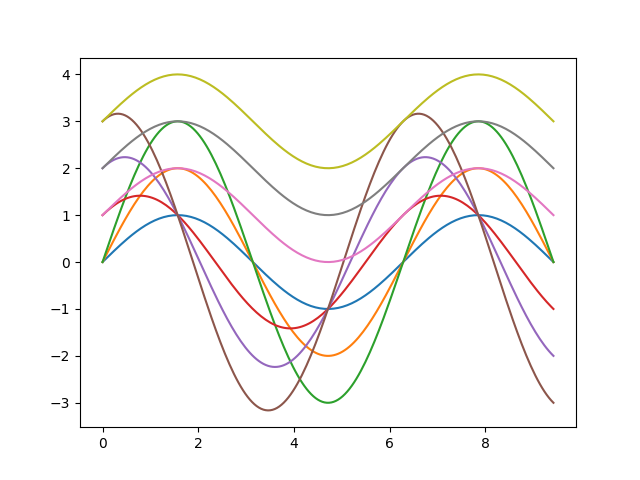
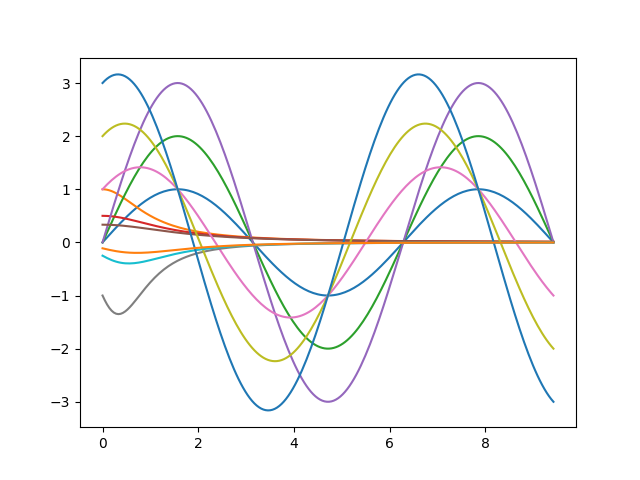
Add coeffs generator

diff --git a/test/test_generator.py b/test/test_generator.py
@@ -1,0 +1,57 @@
+import unittest
+from math import sqrt
+import numpy as np
+import sympy as sp
+import matplotlib.pyplot as plt
+from src import polyhedra
+from src import generator
+
+class TestGenerator(unittest.TestCase):
+    def __init__(self, methodName: str = ...) -> None:
+        super().__init__(methodName)
+        syms = sp.symbols('x y')
+        x, y = syms
+        exprs_val = [x**2, y**2]
+        exprs_dir = [np.array([2*x, 0]), np.array([0, 2*y])]
+        fexprs = [
+            generator.FlowExpr(expr_val, expr_dir)
+            for expr_val, expr_dir in zip(exprs_val, exprs_dir)
+        ]
+        cg = generator.CoeffsGenerator(syms, fexprs)
+
+        wits_pos = [
+            np.array([+1., 0.]),
+            np.array([-1., 0.]),
+            np.array([0., +1.]),
+            np.array([0., -1.]),
+        ]
+
+        for vars in wits_pos:
+            cg.add_constraint_pos(vars)
+
+        A = np.array([
+            [-0.5, -1.],
+            [+1., -0.5]
+        ])
+
+        wits_lie_vars = [
+            np.array([+1., +1.]),
+            np.array([+1., -1.]),
+            np.array([-1., +1.]),
+            np.array([-1., -1.]),
+        ]
+        wits_lie = [(vars, A @ vars) for vars in wits_lie_vars]
+
+        for vars, dvars in wits_lie:
+            cg.add_constraint_lie(vars, dvars)
+
+        self.cg = cg
+
+        coeffs, r = cg.compute_coeffs_robust(output_flag=False)
+        self.coeffs = coeffs
+        self.r = r
+
+    def test_coeffs_robust(self):
+        self.assertAlmostEqual(self.coeffs[0], 1 - self.r)
+        self.assertAlmostEqual(self.coeffs[1], 1 - self.r)
+        self.assertAlmostEqual(self.r, 1/(1 + sqrt(10)/2))

diff --git a/test/test_symbolics.py b/test/test_symbolics.py
@@ -1,0 +1,54 @@
+import unittest
+from math import pi
+import numpy as np
+import sympy as sp
+import matplotlib.pyplot as plt
+from src import symbolics
+
+class TestSymbolics(unittest.TestCase):
+    def __init__(self, methodName: str = ...) -> None:
+        super().__init__(methodName)
+        syms = sp.symbols('x a')
+        self.syms = syms
+        exprs = [
+            syms[1]*sp.sin(syms[0]),
+            1/(syms[1] + syms[0]**2)
+        ]
+
+        nstep = 200
+        xdom = np.linspace(0.0, 3*pi, nstep)
+        adom = [1, 2, 3]
+
+        for a in adom:
+            for expr in exprs:
+                points = [
+                    symbolics.evalf_expr(expr, syms, np.array([x, a]))
+                    for x in xdom
+                ]
+                plt.plot(xdom, points)
+        
+        dexprs = [symbolics.diff_expr(expr, syms) for expr in exprs]
+
+        for a in adom:
+            for dexpr in dexprs:
+                points = [
+                    symbolics.evalf_expr(
+                        np.dot(dexpr, np.array([1, 1])),
+                        syms,
+                        np.array([x, a])
+                    )
+                    for x in xdom
+                ]
+                plt.plot(xdom, points)
+
+        plt.savefig('./figs/plot_symfunc.png')
+        plt.close()
+
+        self.dexprs = dexprs
+
+    def test_diff(self):
+        x, a = self.syms
+        self.assertEqual(self.dexprs[0][0], a*sp.cos(x))
+        self.assertEqual(self.dexprs[0][1], sp.sin(x))
+        self.assertEqual(self.dexprs[1][0], -2*x/(a + x**2)**2)
+        self.assertEqual(self.dexprs[1][1], -1/(a + x**2)**2)

diff --git a/test/test_ackermann.py b/test/test_ackermann.py
@@ -16,7 +16,8 @@ class TestAckermann(unittest.TestCase):
 
         finps = lambda t : np.array([
             0.1*(1 + 0.5*cos(t)),
-            0.1*(1 + 0.5*sin(t))])
+            0.1*(1 + 0.5*sin(t))
+        ])
 
         traj_inps = [finps(t) for t in tdom]
 
@@ -25,11 +26,12 @@ class TestAckermann(unittest.TestCase):
             ax_[i, j].plot(tdom, [inps[k] for inps in traj_inps])
 
         L = 0.33
+        vars_init = np.zeros(4)
+        print(vars_init)
 
         nom_sys = ackermann.make_system(L)
         nom_cosys = systems.open_loop(nom_sys, finps)
-        varsinit = np.array([0, 0, 0, 0])
-        traj_conom = dynamics.trajectory(nom_cosys, varsinit, tdom)
+        traj_conom = dynamics.trajectory(nom_cosys, vars_init, tdom)
         finps_augm = lambda t : np.concatenate((np.array([1]), finps(t)))
 
         for k in range(4):
@@ -37,7 +39,7 @@ class TestAckermann(unittest.TestCase):
             ax_[i + 1, j].plot(tdom, [vars[k] for vars in traj_conom])
 
         traj_coloc = []
-        vars = np.array(varsinit)
+        vars = np.array(vars_init)
 
         for k in range(nstep):
             traj_coloc.append(vars)
@@ -59,6 +61,8 @@ class TestAckermann(unittest.TestCase):
         self.traj_coloc = traj_coloc
 
     def test_deviation(self):
-        devs = [np.linalg.norm(vars_nom - vars_loc)
-            for vars_nom, vars_loc in zip(self.traj_conom, self.traj_coloc)]
+        devs = [
+            np.linalg.norm(vars_nom - vars_loc)
+            for vars_nom, vars_loc in zip(self.traj_conom, self.traj_coloc)
+        ]
         self.assertLess(max(devs), 0.002)

diff --git a/src/generator.py b/src/generator.py
@@ -1,0 +1,41 @@
+from ast import expr
+import numpy as np
+import src.symbolics as symbolics
+import src.polyhedra as polyhedra
+
+class FlowExpr:
+    def __init__(self, expr_val, expr_dir) -> None:
+        self.val = expr_val
+        self.dir = expr_dir
+
+class CoeffsGenerator:
+    def __init__(self, syms, fexprs) -> None:
+        self.syms = syms
+        self.fexprs = fexprs
+        ncoeff = len(fexprs)
+        rmax = 2
+        p = polyhedra.Polyhedron(ncoeff, rmax)
+        for i in range(ncoeff):
+            a = np.array([1 if j == i else 0 for j in range(ncoeff)])
+            p.add_halfspace(polyhedra.Halfspace(+a, -1))
+            p.add_halfspace(polyhedra.Halfspace(-a, -1))
+        self.p = p
+
+    def add_constraint_pos(self, vars):
+        a = np.array([
+            symbolics.evalf_expr(fexpr.val, self.syms, vars)
+            for fexpr in self.fexprs
+        ])
+        self.p.add_halfspace(polyhedra.Halfspace(-a, 0))
+
+    def add_constraint_lie(self, vars, dvars):
+        a = np.array([
+            symbolics.evalf_expr(np.dot(fexpr.dir, dvars), self.syms, vars)
+            for fexpr in self.fexprs
+        ])
+        self.p.add_halfspace(polyhedra.Halfspace(+a, 0))
+
+    def compute_coeffs_robust(self, *, output_flag=True):
+        return self.p.compute_chebyshev_center(output_flag=output_flag)
+
+

diff --git a/src/ackermann.py b/src/ackermann.py
@@ -17,7 +17,8 @@ def _local_affine_maps(vars, L):
         [0, 0, cos(alpha), -v*sin(alpha)],
         [0, 0, sin(alpha), +v*cos(alpha)],
         [0, 0, 0, 0],
-        [0, 0, 0, 0]])
+        [0, 0, 0, 0]
+    ])
     b0 = np.array([v*cos(alpha), v*sin(alpha), 0, 0]) - np.dot(A0, vars)
     A1 = np.zeros((4, 4))
     b1 = np.array([0, 0, 1, 0])
@@ -25,11 +26,14 @@ def _local_affine_maps(vars, L):
         [0, 0, 0, 0],
         [0, 0, 0, 0],
         [0, 0, 0, 0],
-        [0, 0, 1/L, 0]])
+        [0, 0, 1/L, 0]
+    ])
     b2 = np.zeros(4)
-    return [sys.AffineMap(A0, b0),
-            sys.AffineMap(A1, b1),
-            sys.AffineMap(A2, b2)]
+    return [
+        sys.AffineMap(A0, b0),
+        sys.AffineMap(A1, b1),
+        sys.AffineMap(A2, b2)
+    ]
 
 def make_local_affine_system(vars, L):
     aff_maps = _local_affine_maps(vars, L)

diff --git a/test/test_polyhedra.py b/test/test_polyhedra.py
@@ -1,7 +1,6 @@
 import unittest
 from math import sqrt
 import numpy as np
-import matplotlib.pyplot as plt
 import gurobipy
 from src import polyhedra
 
@@ -18,10 +17,8 @@ class TestPolyhedra(unittest.TestCase):
         p.add_halfspace(h)
 
         for i in range(nvar):
-            a = np.zeros(nvar)
-            a[i] = -1
-            h = polyhedra.Halfspace(a, 0)
-            p.add_halfspace(h)
+            a = np.array([1. if j == i else 0. for j in range(nvar)])
+            p.add_halfspace(polyhedra.Halfspace(-a, 0))
 
         _, rad = p.compute_chebyshev_center(output_flag=False)
 

diff --git a/src/symbolics.py b/src/symbolics.py
@@ -1,0 +1,18 @@
+from cmath import exp
+import numpy as np
+import sympy as sp
+
+def evalf_expr(expr, syms, vals):
+    valuation = {sym:val for sym, val in zip(syms, vals)}
+    return float(expr.evalf(subs=valuation))
+
+def diff_expr(expr, syms):
+    return np.array([sp.diff(expr, sym) for sym in syms])
+
+# class Template:
+#     def __init__(self, syms, exprs) -> None:
+#         self.syms = syms
+#         self.exprs = exprs
+
+#     def build_expr(self, coeffs):
+#         return np.dot(coeffs, self.exprs)

diff --git a/src/dynamics.py b/src/dynamics.py
@@ -17,10 +17,10 @@ def _rk4_mult(vars, sys, t0, t1, nsub):
         vars = _rk4_single(vars, sys, t, dt)
     return vars
 
-def trajectory(flow, varsinit, tdom, nsub=1):
+def trajectory(flow, vars_init, tdom, nsub=1):
     nstep = len(tdom)
     traj = []
-    vars = np.array(varsinit)
+    vars = np.array(vars_init) # makes copy
     for k in range(nstep):
         traj.append(vars)
         if k == nstep - 1:

diff --git a/src/polyhedra.py b/src/polyhedra.py
@@ -7,6 +7,9 @@ class Halfspace:
         self.a = a
         self.beta = beta
 
+    def __repr__(self):
+        return "<Halfspace a:%s, beta:%s>" % (self.a, self.beta)
+
 class ChebyshevError(Exception):
     def __init__(self, *args: object) -> None:
         super().__init__(*args)
